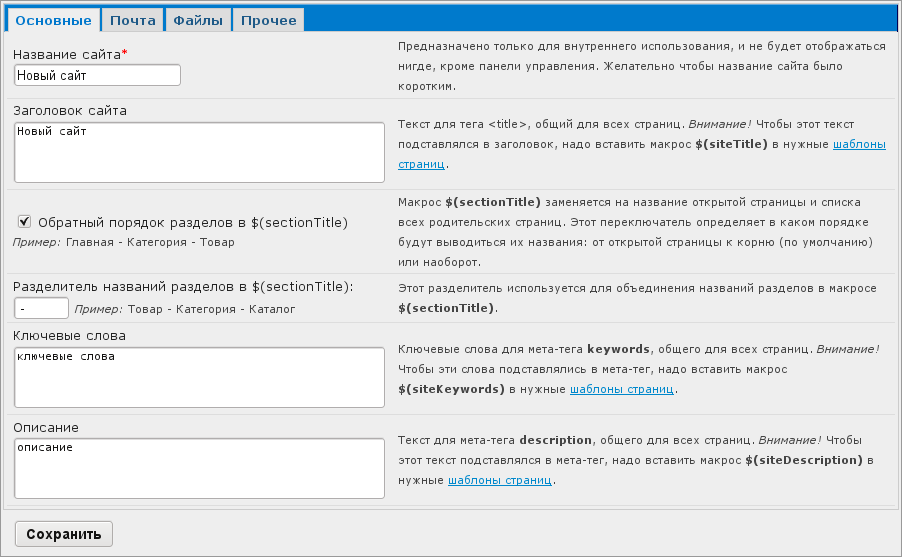
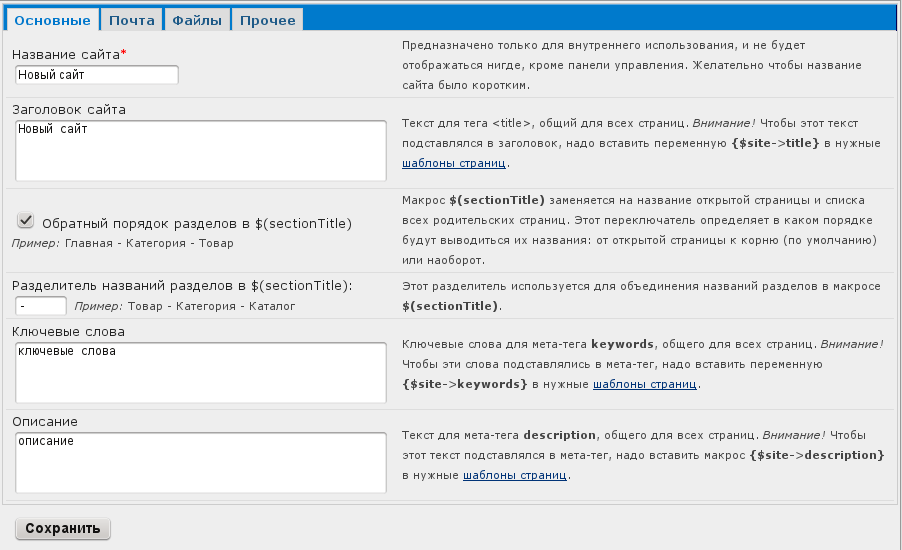
Исправлена статья про конфигурацию сайта.

Changed region(s): [[0.0, 0.0, 1.0, 1.0], [0.0, 0.0, 0.4035, 0.9273], [0.4035, 0.8655, 0.4346, 0.8964]]

diff --git a/docs/manage/site/settings.rst b/docs/manage/site/settings.rst
@@ -10,7 +10,8 @@
 * :ref:`Файлы <files>` --- настройка конфигурации файлов, загружаемых на сайт;
 * :ref:`Прочее <misc>` --- установка типа раздела и шаблона, предлагаемых по умолчанию.
 
-После настройки конфигурации подтвердите операцию нажатием кнопки "Сохранить". Для отказа от внесения изменений выйдите из раздела "Конфигурация".
+После настройки конфигурации подтвердите операцию нажатием кнопки "Сохранить". Для отказа от
+внесения изменений выйдите из раздела "Конфигурация".
 
 .. _main:
 
@@ -24,36 +25,41 @@
 Название сайта
 ^^^^^^^^^^^^^^
 
-Короткое название сайта. Используется только в :doc:`АИ </manage/intro/terms>` (например, в диалоге авторизации).
+Короткое название сайта. Используется только в :doc:`АИ </manage/intro/terms>` (например, в диалоге
+авторизации).
 
-Доступно в шаблонах через макрос ``$(siteName)``.
+Доступно в шаблонах через переменную ``{$site->name}``.
 
 Заголовок сайта
 ^^^^^^^^^^^^^^^
 
 Общая часть заголовка страниц сайта. Обычно используется для тега ``<title>``.
 
-Доступен в шаблонах через макрос ``$(siteTitle)``. Подробнее об управлении заголовками страниц см. :doc:`meta-tags`.
+Доступен в шаблонах через переменную ``{$site->title}``. Подробнее об управлении заголовками страниц
+см. :doc:`meta-tags`.
 
 Вывод разделов в обратном порядке
 ^^^^^^^^^^^^^^^^^^^^^^^^^^^^^^^^^
 
-Флаг используется для определения, в каком порядке будет выводиться полный путь от корневого раздела к странице.
-Для вывода пути в обратном порядке установите галочку "Обратный порядок разделов в $(sectionTitle)"
+Флаг используется для определения, в каком порядке будет выводиться полный путь от корневого раздела
+к странице. Для вывода пути в обратном порядке установите галочку "Обратный порядок разделов в
+$(sectionTitle)".
 
 Разделитель
 ^^^^^^^^^^^
 
-В поле "Разделитель" указывается символ, который разделяет название раздела и списка всех родительских страниц.
+В поле "Разделитель" указывается символ, который разделяет название раздела и списка всех
+родительских страниц.
 
-Используется в макросе ``$(sectionTitle)``. Подробнее об управлении заголовками страниц см. :doc:`meta-tags`.
+Используется в макросе ``$(sectionTitle)``. Подробнее об управлении заголовками страниц см.
+:doc:`meta-tags`.
 
 Ключевые слова
 ^^^^^^^^^^^^^^
 
 Глобальный (общий для всех страниц) список ключевых слов сайта для использования в мета-тегах.
 
-Доступны в шаблонах через макрос ``$(siteKeywords)``.
+Доступны в шаблонах через переменную ``{$site->keywords}``.
 
 Подробнее об управлении мета-тегами см. :doc:`meta-tags`.
 
@@ -62,7 +68,7 @@
 
 Глобальное (общее для всех страниц) описание сайта для использования в мета-тегах.
 
-Доступно в шаблонах через макрос ``$(siteDescription)``.
+Доступно в шаблонах через переменную ``{$site->description}``.
 
 Подробнее об управлении мета-тегами см. :doc:`meta-tags`.
 
